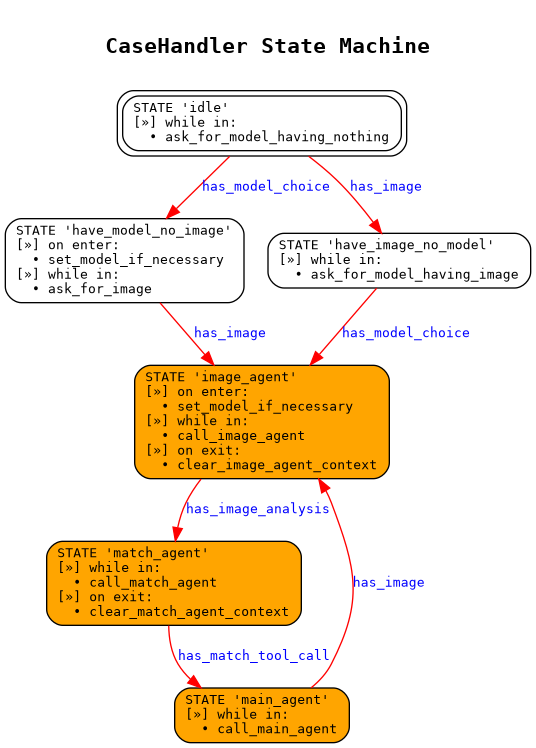
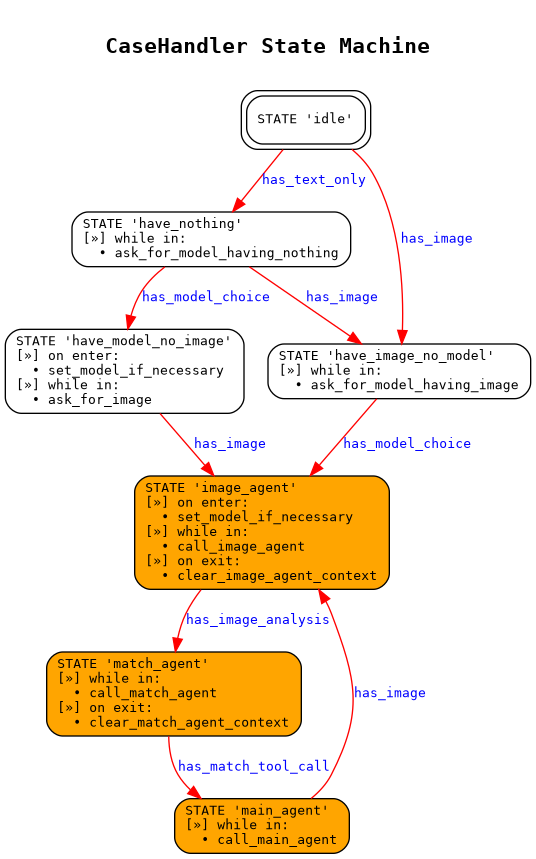
Formalize initial state semantics

Changed region(s): [[0.0, 0.0307, 1.0, 1.0], [0.9552, 0.3075, 1.0, 0.369]]

diff --git a/casehandler.py b/casehandler.py
@@ -101,9 +101,12 @@ class CaseHandler (AsyncWhatsAppCaseHandler) :
         """
         states = [
         
+        # Initial state
+        CH_State("idle"),
+
         # Information-gathering states
         CH_State(
-            "idle",
+            "have_nothing",
             while_in = [ "ask_for_model_having_nothing" ],
         ),
         CH_State(
@@ -143,9 +146,17 @@ class CaseHandler (AsyncWhatsAppCaseHandler) :
         
         # From state: idle
         { "source"  : "idle",
+          "trigger" : "has_text_only",
+          "dest"    : "have_nothing" },
+        { "source"  : "idle",
+          "trigger" : "has_image",
+          "dest"    : "have_image_no_model" },
+        
+        # From state: have_nothing
+        { "source"  : "have_nothing",
           "trigger" : "has_model_choice",
           "dest"    : "have_model_no_image" },
-        { "source"  : "idle",
+        { "source"  : "have_nothing",
           "trigger" : "has_image",
           "dest"    : "have_image_no_model" },
         
@@ -296,7 +307,7 @@ class CaseHandler (AsyncWhatsAppCaseHandler) :
             
             if (
                 isinstance( message, HumanUserInteractiveReplyMsg) and
-                ( self.state in ( "idle", "have_image_no_model") )
+                ( self.state in ( "have_nothing", "have_image_no_model") )
             ) :
                 self.model_choice = message.choice.id
                 await self.trigger("has_model_choice")
@@ -308,6 +319,11 @@ class CaseHandler (AsyncWhatsAppCaseHandler) :
             )
             if msg_has_image :
                 await self.trigger("has_image")
+            elif (
+                isinstance( message, HumanUserContentMsg) and
+                message.text and ( self.state == "idle" )
+            ) :
+                await self.trigger("has_text_only")
         
         elif isinstance( message, AssistantMsg) :
             
@@ -332,6 +348,7 @@ class CaseHandler (AsyncWhatsAppCaseHandler) :
             (
                 self.state in (
                     "idle",
+                    "have_nothing",
                     "have_model_no_image",
                     "have_image_no_model",
                     "image_agent"

diff --git a/README.md b/README.md
@@ -15,11 +15,16 @@ The conversation logic lives in
 [`CaseHandler.define_state_machine_config()`](casehandler.py).
 Its core states are:
 - `idle`
+- `have_nothing`
 - `have_model_no_image`
 - `have_image_no_model`
 - `image_agent`
 - `match_agent`
 - `main_agent`
+
+`idle` is the callback-free initial state, before the first user message has been
+classified. A text-only message moves the machine to `have_nothing`, where it asks
+for the drone model; an image moves it directly to `have_image_no_model`.
 
 The handler itself is initialized as a `transitions.AsyncMachine` via
 `AsyncWhatsAppCaseHandler.init_machine(...)`. The current FSM state and selected
